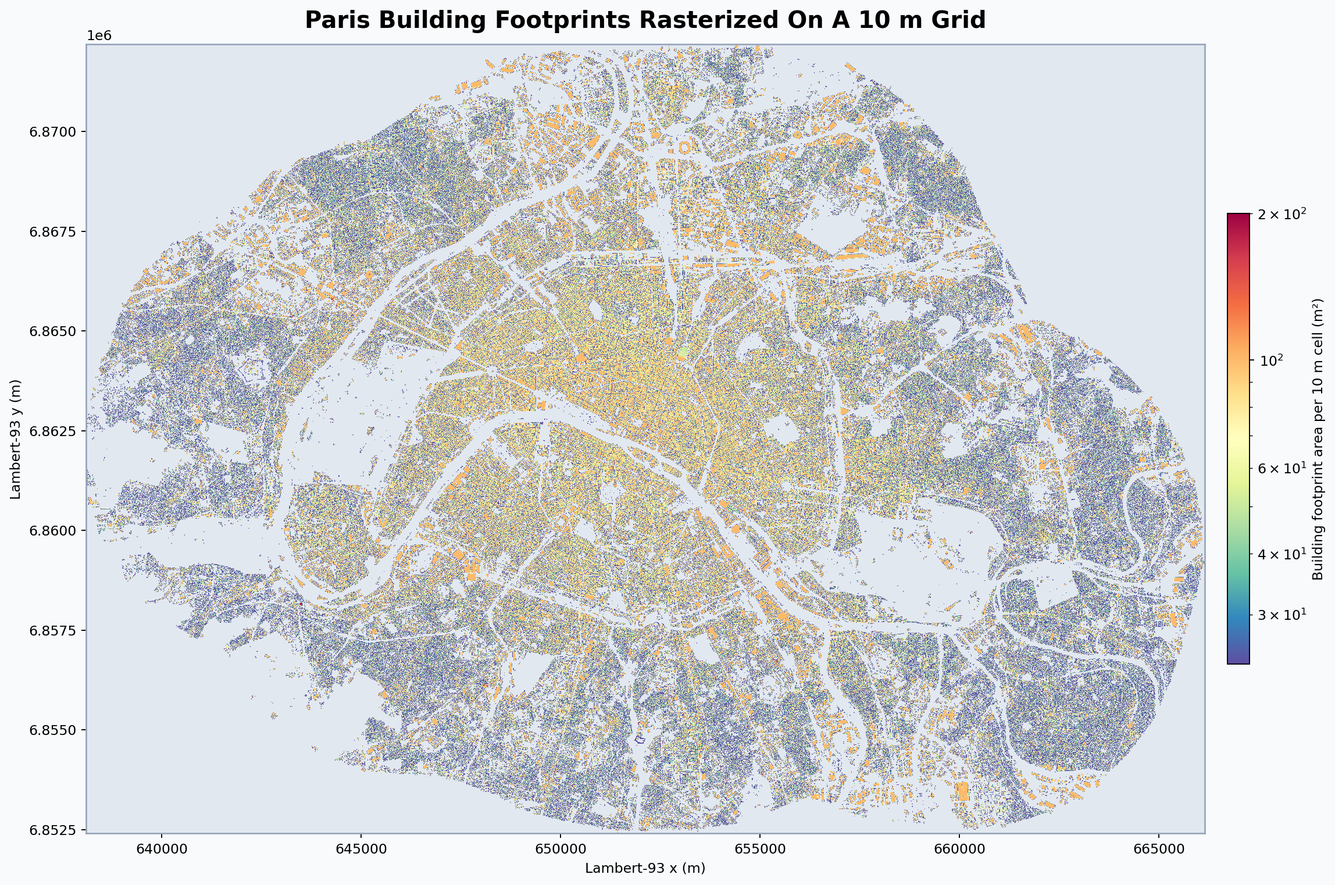
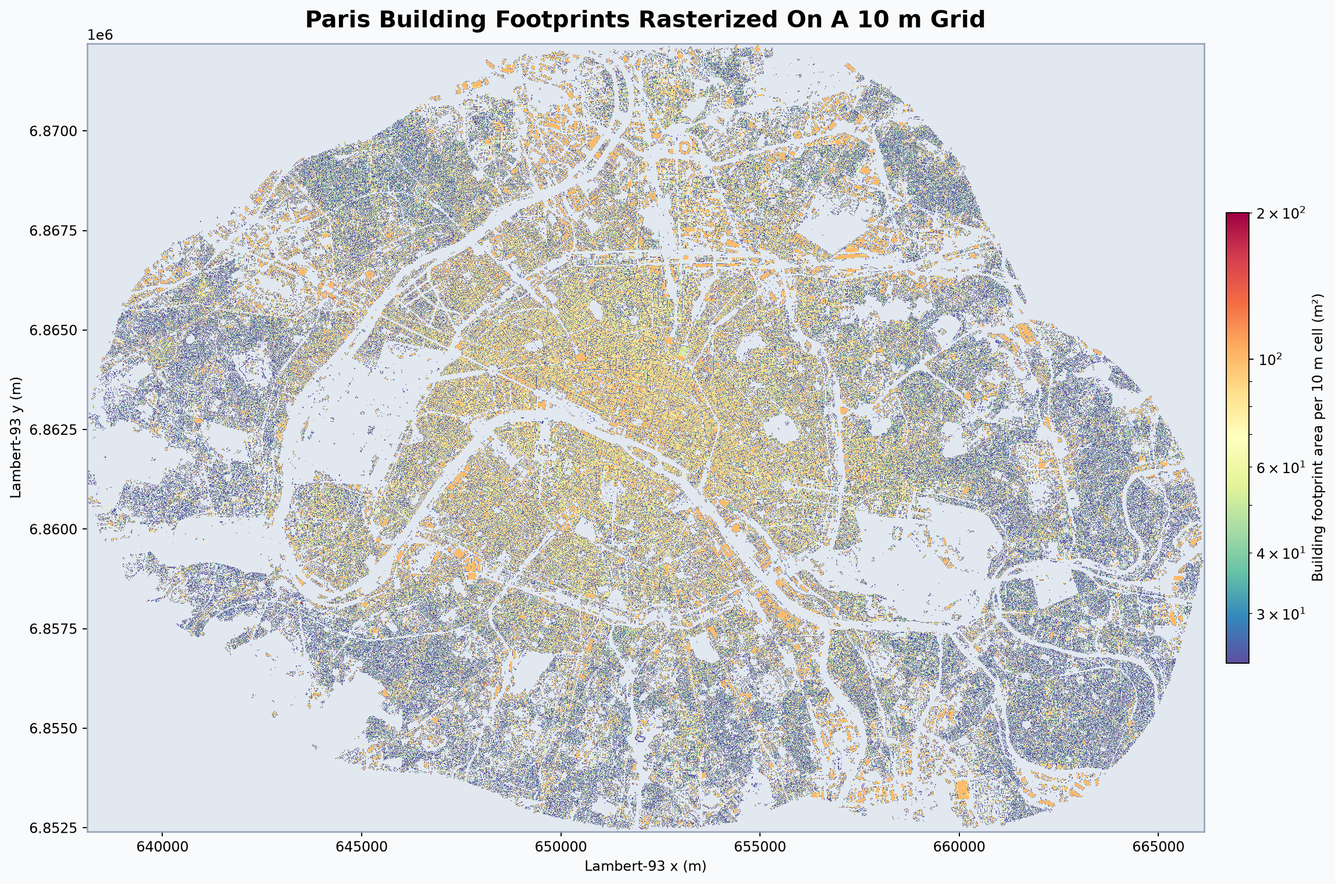
docs: document the accumulation engine and refresh benchmarks
The algorithm page now describes the exact + accumulation split, keeps
the hybrid path documented as the retained fallback (with its memory
trade-off), and reframes the threshold-tuning study as the history it
is. The decision flow chart shows the accumulation branch.

The Paris showcase was regenerated with the new engine: rasterization
went from 6.7 s (committed metadata; the prose still said 13.1 s from an
earlier state) to 3.9 s. README strategy blurbs updated accordingly, and
the changelog gains a v0.3.5 section.

diff --git a/docs/algorithm.rst b/docs/algorithm.rst
@@ -14,20 +14,20 @@ Polygon rasterization has two competing costs:
 - bulk filling is much faster for polygon interiors, but it still needs exact handling near the polygon boundary
 
 Because the target grid is regular and axis-aligned, ``rasterizer`` can turn that structure into simpler index
-math and faster scanline-style filling than a general rasterization engine can usually assume.
+math and cheaper traversal than a general rasterization engine can usually assume.
 
-``rasterizer`` therefore uses two internal paths for polygons:
+``rasterizer`` therefore uses two default paths for polygons:
 
 - small polygon bounding boxes use an exact engine that clips the polygon against every candidate cell
-- larger polygon bounding boxes use a hybrid engine that clips only boundary cells exactly and fills the interior with scanline spans
+- larger polygon bounding boxes use a signed per-edge area accumulation engine that visits only the cells crossed by polygon edges and fills the interior with a row sweep
 
-The switch happens from an internal bbox-size threshold measured in grid cells. In the current implementation, that threshold is ``36`` cells.
+The switch happens from an internal bbox-size threshold measured in grid cells. In the current implementation, that threshold is ``36`` cells. A third engine, the earlier hybrid boundary-clipping path, is retained as an internal fallback (see below) but is not selected by default.
 
 .. figure:: _static/algorithm_flow.svg
-   :alt: Flow chart showing the switch between the exact and hybrid polygon rasterization paths.
+   :alt: Flow chart showing the switch between the exact and accumulation polygon rasterization paths.
    :align: center
 
-   The engine chooses between simple exact clipping and a faster hybrid path based on the polygon bounding-box size on the target grid.
+   The engine chooses between simple exact clipping and the accumulation path based on the polygon bounding-box size on the target grid.
 
 Exact Path
 ----------
@@ -35,52 +35,52 @@ Exact Path
 For small polygon bounding boxes, the engine iterates over candidate cells and:
 
 - clips the polygon exterior to the cell box
-- subtracts clipped interior rings when holes are present
+- subtracts clipped interior rings when holes are present (rings whose bounding box does not touch the cell are skipped without clipping)
 - computes the resulting area in ``mode="area"``, or marks the cell in ``mode="binary"``
 
 This path minimizes algorithmic complexity and is a good fit when the number of candidate cells stays modest.
 
-Hybrid Path For Large Polygons
-------------------------------
+Accumulation Path For Large Polygons
+------------------------------------
 
-For larger polygon bounding boxes, the engine separates the work into three stages.
+For larger polygon bounding boxes, the engine computes every cell's covered area in a single pass over the polygon edges, without clipping the polygon against any cell. This is the cover/area accumulation scheme familiar from scanline rasterizers such as AGG and from ``exactextract``.
+
+1. Orientation normalization
+
+The accumulation is signed, so ring winding matters. Each ring's signed area decides its traversal direction: exteriors contribute as counter-clockwise rings and holes as clockwise ones, regardless of how the input geometry stores them. Holes then subtract from the covered area automatically; no separate hole handling exists in this path.
+
+2. Per-edge accumulation
+
+Each ring edge is walked across the grid cells it crosses. For the sub-segment inside a cell, two per-cell accumulators receive:
+
+- the signed trapezoid area between the sub-segment and the cell's left edge
+- the signed vertical extent (``dy``) of the sub-segment, called its cover
+
+3. Row sweep
+
+Each bbox row is swept left to right while summing covers. A cell's covered area is its own accumulated trapezoid area plus the running cover times the cell width. Cells untouched by any edge come out as fully outside (zero) or fully inside (the full cell area), so the sweep *is* the interior fill; there is no separate scanline pass.
+
+Polygons that overhang the grid are clipped once per ring against the accumulation window, so travel along the window boundary keeps the winding closed. Fully interior polygons skip that step.
+
+The cost is ``O(edge-cell crossings + bbox cells)`` per polygon. The previous hybrid path paid ``O(vertices x boundary cells)`` because every boundary cell re-clipped the full polygon; for a coastline-like polygon with tens of thousands of vertices the difference is orders of magnitude. On the local review workloads the accumulation engine measured between 2.8x (many small polygons) and 36x (a 16k-vertex circle) faster than the previous default, and it was ahead on every workload down to 4-vertex rectangles, which is why it is the default for every polygon above the exact threshold rather than only for high-vertex ones.
+
+Hybrid Path (Retained Fallback)
+-------------------------------
+
+The previous large-polygon engine is still present and selectable through an internal vertex-count threshold (``_ACCUM_POLYGON_THRESHOLD_VERTICES``; raising it routes polygons back to hybrid). It separates the work into three stages: mark the cells crossed by ring segments, fill interior scanline spans in bulk, then clip only the marked boundary cells exactly.
 
 .. figure:: _static/algorithm_hybrid_steps.svg
    :alt: Three-panel schematic showing boundary marking, scanline span filling, and exact clipping of boundary cells.
    :align: center
 
-   Large polygons avoid repeated clipping on fully interior cells. This illustration is generated from a Python plotting script that applies the same boundary-marking and scanline rules as the hybrid path.
+   The retained hybrid path: boundary cells keep exact fractions while interior fills stay bulk-written.
 
-1. Boundary detection
-
-Each exterior and interior ring segment is tested against overlapping cells in the polygon bounding box. Any cell crossed by the polygon boundary is marked for exact processing later.
-
-2. Interior fill
-
-For each scanline of cell centers, the engine computes ring intersections, sorts them, and fills the spans between intersection pairs. Cells that are not marked as boundary cells can be written directly:
-
-- in ``mode="binary"``, filled cells become ``True``
-- in ``mode="area"``, filled cells receive the full cell area, scaled by the polygon weight when a weight column is used
-
-3. Exact boundary pass
-
-Cells touched by the polygon boundary are then processed with the same exact clipping routine used by the small-polygon path. This preserves exact cell fractions where the geometry actually cuts through a cell.
-
-Why This Helps
---------------
-
-The expensive part of exact polygon rasterization is repeated clipping against many fully interior cells that all have the same answer. The hybrid strategy avoids that repeated work:
-
-- interior cells are filled in bulk from scanline spans
-- only boundary cells pay the cost of polygon clipping
-- holes are handled naturally because their rings participate in both boundary marking and scanline intersections
-
-In practice, this keeps the simple exact behavior for small cases and reduces clipping work substantially for large polygons.
+Its main remaining advantage is memory: it needs one byte per bbox cell (a boundary mask) where the accumulation path needs two ``float64`` accumulators, i.e. sixteen bytes per bbox cell, allocated transiently per polygon. For extremely large bounding boxes on fine grids that difference can matter.
 
 Benchmark-Driven Threshold Tuning
 ---------------------------------
 
-The switch threshold was not chosen heuristically. It was tuned by forcing both engines on the same synthetic corpus and comparing their measured runtimes.
+The exact-versus-large switch threshold was not chosen heuristically. It was tuned by forcing the engines on the same synthetic corpus and comparing their measured runtimes. The tuning below was performed against the hybrid engine; the conclusion it supports — reserve exact clipping for only the tiniest polygon bboxes — carries over unchanged now that the accumulation engine (which is faster than hybrid across the corpus regimes) sits on the large side of the switch.
 
 Benchmark process
 ^^^^^^^^^^^^^^^^^
@@ -88,7 +88,7 @@ Benchmark process
 The local benchmark used during tuning forces the polygon engine into one path or the other by setting the internal threshold to extremes:
 
 - ``10**9`` forces the exact per-cell clipping path
-- ``0`` forces the hybrid path for every polygon bbox
+- ``0`` forces the large-polygon path for every polygon bbox
 
 Each sampled case is then rasterized twice, once with each forced path, on the same grid and in the same mode. The checked-in benchmark dataset in ``docs/_static/polygon_threshold_benchmark.csv`` contains ``1020`` measured cases. It was generated from a local benchmark harness that is intentionally kept outside version control.
 
@@ -110,10 +110,10 @@ The corpus varies several factors that matter for the crossover:
 Why Occupancy Matters
 ^^^^^^^^^^^^^^^^^^^^^
 
-Occupancy changes the balance between the two engines:
+Occupancy changes the balance between the engines:
 
 - the exact path pays roughly for every candidate cell in the polygon bbox
-- the hybrid path pays more for boundary cells, scanline crossings, and ring complexity, but it avoids re-clipping large fully interior regions
+- the large-polygon paths pay for boundary work and ring complexity, but avoid re-clipping large fully interior regions
 
 That means two polygons with the same bbox size can have different crossovers if one is dense and the other is mostly empty space or holes.
 
@@ -121,7 +121,7 @@ That means two polygons with the same bbox size can have different crossovers if
    :alt: Scatter plot of exact over hybrid runtime against bbox size, colored by occupancy bucket.
    :align: center
 
-   Each point is one measured case. Values above ``1`` mean the hybrid path was faster. Hybrid speedups grow with bbox size, but low-occupancy and hole-heavy polygons were also sampled explicitly so the switch was not tuned only for dense shapes.
+   Each point is one measured case. Values above ``1`` mean the large-polygon path was faster. Speedups grow with bbox size, but low-occupancy and hole-heavy polygons were also sampled explicitly so the switch was not tuned only for dense shapes.
 
 Selecting The Cutoff
 ^^^^^^^^^^^^^^^^^^^^
@@ -129,7 +129,7 @@ Selecting The Cutoff
 For every candidate threshold, the benchmark computes the aggregate runtime obtained by choosing:
 
 - the exact path when ``bbox_cells <= threshold``
-- the hybrid path otherwise
+- the large-polygon path otherwise
 
 The resulting curve is shallow near the optimum: several very small thresholds perform almost the same. In the current benchmark snapshot, the best observed aggregate time lands at the lowest tested cutoff, so the implementation uses a very small cutoff while still reserving the exact path for only the tiniest polygon bboxes.
 
@@ -139,4 +139,4 @@ The resulting curve is shallow near the optimum: several very small thresholds p
 
    Aggregate runtime relative to the best observed threshold on the sampled corpus. The important result is not a sharp single optimum, but that the old large cutoff was clearly too high and that the useful regime sits among very small bbox thresholds.
 
-In other words, the benchmark supports a policy more than a magic number: keep the exact path only for very small polygon bboxes, and switch to hybrid early.
+In other words, the benchmark supports a policy more than a magic number: keep the exact path only for very small polygon bboxes, and switch to the large-polygon engine early.

diff --git a/README.md b/README.md
@@ -11,7 +11,7 @@
 - Rasterize lines into a binary (presence/absence) or length-based grid.
 - Rasterize polygons into a binary (presence/absence) or area-based grid.
 - Fast because it targets regular rectilinear grids described by 1D `x` and `y` cell-center coordinates with constant spacing.
-- Hybrid polygon rasterization for large polygon bounding boxes: exact clipping on boundary cells, faster scanline filling for interior cells.
+- Fast large-polygon rasterization: exact per-cell clipping for tiny bounding boxes, signed per-edge area accumulation for everything larger, so cost scales with edge-cell crossings instead of vertices times boundary cells.
 - Weighted rasterization: Rasterize geometries while weighting the output by a numerical column in the GeoDataFrame.
 - Works with `geopandas` GeoDataFrames.
 - Outputs an `xarray.DataArray` for easy integration with other scientific Python libraries.
@@ -61,7 +61,7 @@ You can rasterize lines in either binary or length mode.
 
 You can rasterize polygons in either binary or area mode.
 
-For polygon workloads, `rasterizer` now uses two internal strategies. Small polygon bounding boxes are handled with exact per-cell clipping. Larger ones switch to a hybrid path that still clips boundary cells exactly, but fills interior spans with a scanline pass to reduce the amount of geometric clipping required. The resulting area and binary outputs stay exact at cell boundaries while scaling better on large polygons.
+For polygon workloads, `rasterizer` picks an internal strategy per polygon. Small polygon bounding boxes are handled with exact per-cell clipping. Larger ones use a signed per-edge area accumulation: each edge distributes exact area and cover contributions over the cells it crosses, and a row sweep turns the running cover into interior fill. Boundary cells keep exact fractional areas while the total cost scales with edge-cell crossings plus bbox size instead of re-clipping the polygon for every boundary cell.
 
 | Binary Mode                                            | Area Mode                                          |
 | ------------------------------------------------------ | -------------------------------------------------- |
@@ -69,7 +69,7 @@ For polygon workloads, `rasterizer` now uses two internal strategies. Small poly
 
 ### Large Dataset Showcase
 
-This real-world example uses 606,667 building polygons on a 10 m Lambert-93 grid covering Paris. The `area` rasterization step completes in 13.1 s on a regular laptop used as the local documentation machine for a `2804 x 1978` grid.
+This real-world example uses 606,667 building polygons on a 10 m Lambert-93 grid covering Paris. The `area` rasterization step completes in 3.9 s on a regular laptop used as the local documentation machine for a `2804 x 1978` grid.
 
 ```python
 import geopandas as gpd

diff --git a/docs/changelog.rst b/docs/changelog.rst
@@ -1,6 +1,21 @@
 Changelog
 =========
 
+v0.3.5
+------
+
+Unreleased.
+
+This release replaces the default large-polygon engine with a signed per-edge area accumulation path and trims polygon preprocessing memory.
+
+- large polygons (bbox above the exact-clipping threshold) are now rasterized by accumulating signed trapezoid areas and covers per edge-cell crossing, then filling interiors with a row sweep; cost drops from ``O(vertices x boundary cells + rows x vertices)`` to ``O(edge-cell crossings + bbox)``
+- the previous hybrid path is retained behind an internal vertex threshold as a fallback; forcing it remains covered by the test suite
+- exact and hybrid clipping now skip interior rings whose bounding box does not touch the cell, which alone gave ~4x on a 500-polygons-with-50-holes workload
+- interior ring coordinates are sliced from the single all-coordinates array instead of being extracted a second time, removing a duplicate coordinate copy and one extraction pass
+- added a regression test for the polygon clip scratch overflow fixed in ``5f7c540`` and randomized cross-strategy equivalence tests (jagged stars, grid-overhanging polygons, multi-hole polygons)
+
+On the local review workloads the new default measured 2.8x (100k small mixed polygons) to 36x (one 16k-vertex circle) faster; the Paris building showcase (606,667 polygons, 10 m grid) went from ``6.7 s`` to ``3.9 s``.
+
 v0.3.4
 ------
 

diff --git a/docs/large_dataset_showcase.md b/docs/large_dataset_showcase.md
@@ -27,10 +27,10 @@ The showcase uses a real building-footprint layer from a local GeoPackage:
 | Grid shape                  | 2,804 columns x 1,978 rows                            |
 | Grid cells                  | 5,546,312                                             |
 | Rasterization mode          | `area`                                                |
-| GeoPackage read time        | 5.0 s                                                 |
-| Measured rasterization time | 13.1 s                                                |
+| GeoPackage read time        | 2.8 s                                                 |
+| Measured rasterization time | 3.9 s                                                 |
 
-The rasterization timing above corresponds to the compute step itself, separate from GeoPackage I/O. It was generated locally on a regular Windows 11 laptop with Python 3.13 and 16 logical CPUs using `python scripts/generate_large_dataset_showcase.py`, which also writes the committed image and metadata used by this page.
+The rasterization timing above corresponds to the compute step itself, separate from GeoPackage I/O. It was generated locally on a regular Windows 11 laptop with Python 3.14 and 16 logical CPUs using `python scripts/generate_large_dataset_showcase.py`, which also writes the committed image and metadata used by this page.
 
 ## Notebook Flow
 
